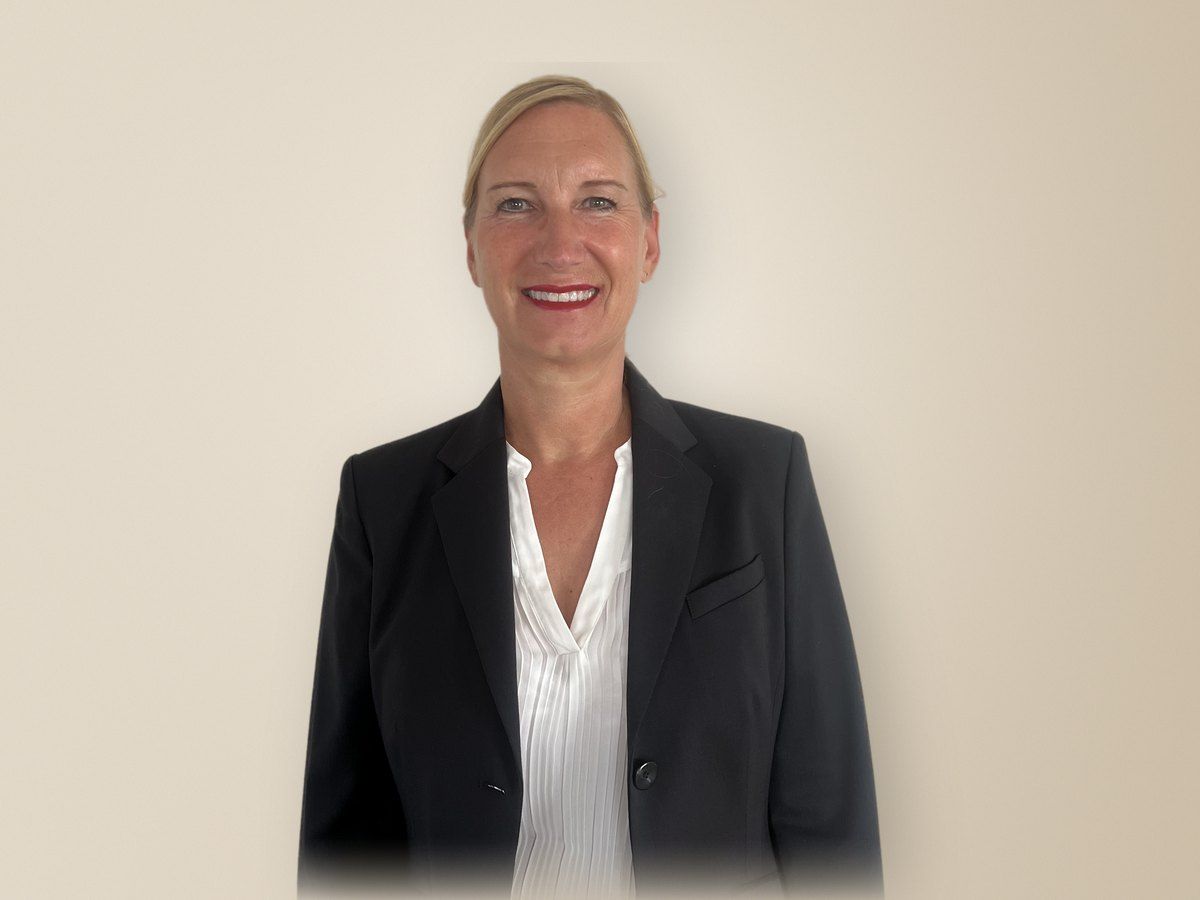
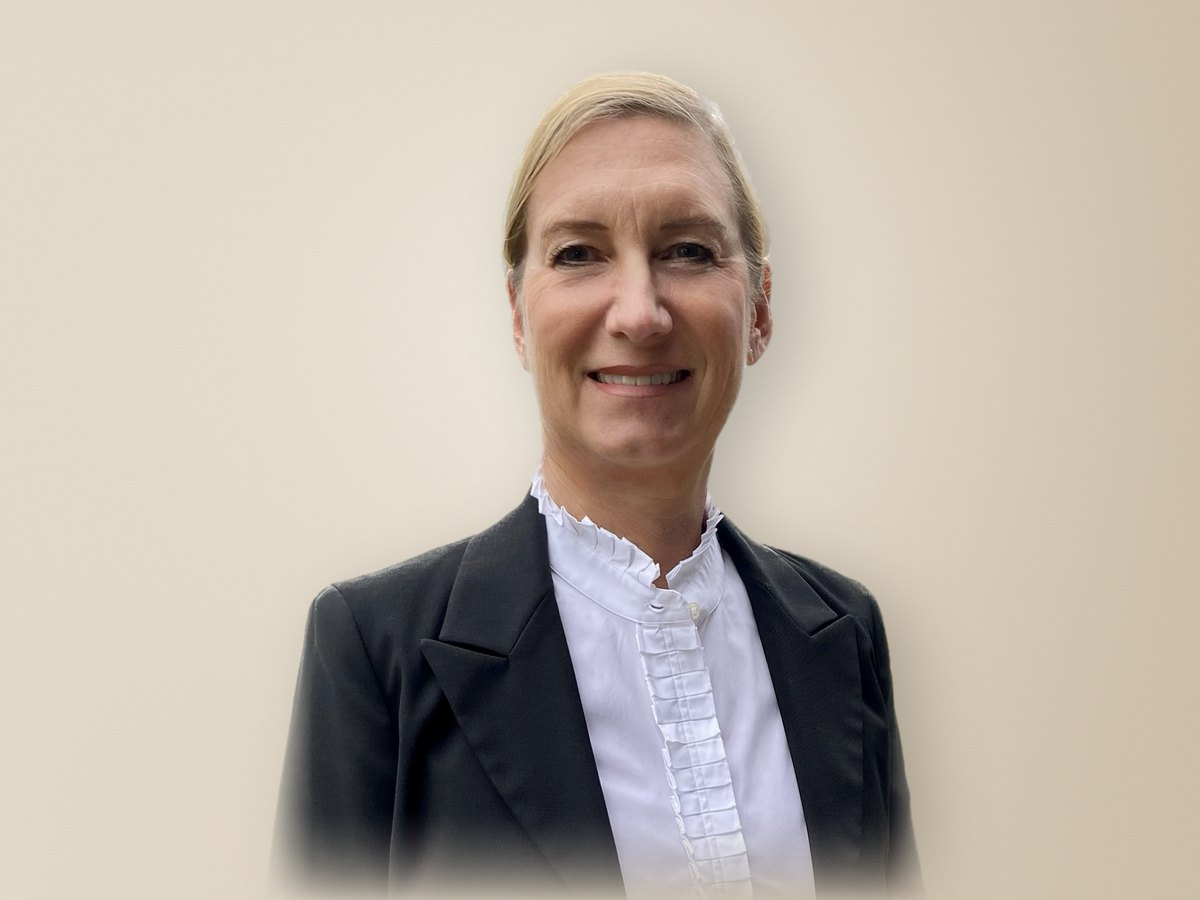
consulting hero: switch to Meike02 business portrait
Hero and portrait rebuilt from the new photo; hero framing adjusted for the
flush-right portrait (desktop 80%, mobile right/top, taller mobile hero).

Changed region(s): [[0.2158, 0.0622, 0.7708, 1.0]]

diff --git a/styles.css b/styles.css
@@ -219,7 +219,7 @@ section.band-dark .btn:hover { background: #fff; border-color: #fff; color: var(
 }
 
 /* Consulting hero: Meike on the right, text on the left */
-.hero.hero--consulting { background-image: url('images/meike-hero.jpg'); background-position: 72% center; align-items: center; text-align: left; }
+.hero.hero--consulting { background-image: url('images/meike-hero.jpg'); background-position: 80% center; align-items: center; text-align: left; }
 .hero.hero--consulting::before { background: linear-gradient(90deg, rgba(34,25,18,.55) 0%, rgba(34,25,18,.15) 45%, rgba(34,25,18,0) 60%); }
 .hero--consulting .container { width: 100%; }
 .hero--consulting .hero-content { max-width: 560px; }
@@ -227,7 +227,7 @@ section.band-dark .btn:hover { background: #fff; border-color: #fff; color: var(
 .hero--consulting .hero-sub { margin-left: 0; }
 .hero--consulting .btn-row { justify-content: flex-start; }
 @media (max-width: 800px) {
-  .hero.hero--consulting { background-position: 74% top; align-items: flex-end; text-align: center; }
+  .hero.hero--consulting { background-position: 100% top; min-height: 760px; max-height: none; align-items: flex-end; text-align: center; }
   .hero.hero--consulting::before { background: linear-gradient(180deg, rgba(34,25,18,0) 30%, rgba(34,25,18,.55) 58%, rgba(34,25,18,.92) 100%); }
   .hero--consulting .hero-content { max-width: none; }
   .hero--consulting .hero-sub { margin-left: auto; }
